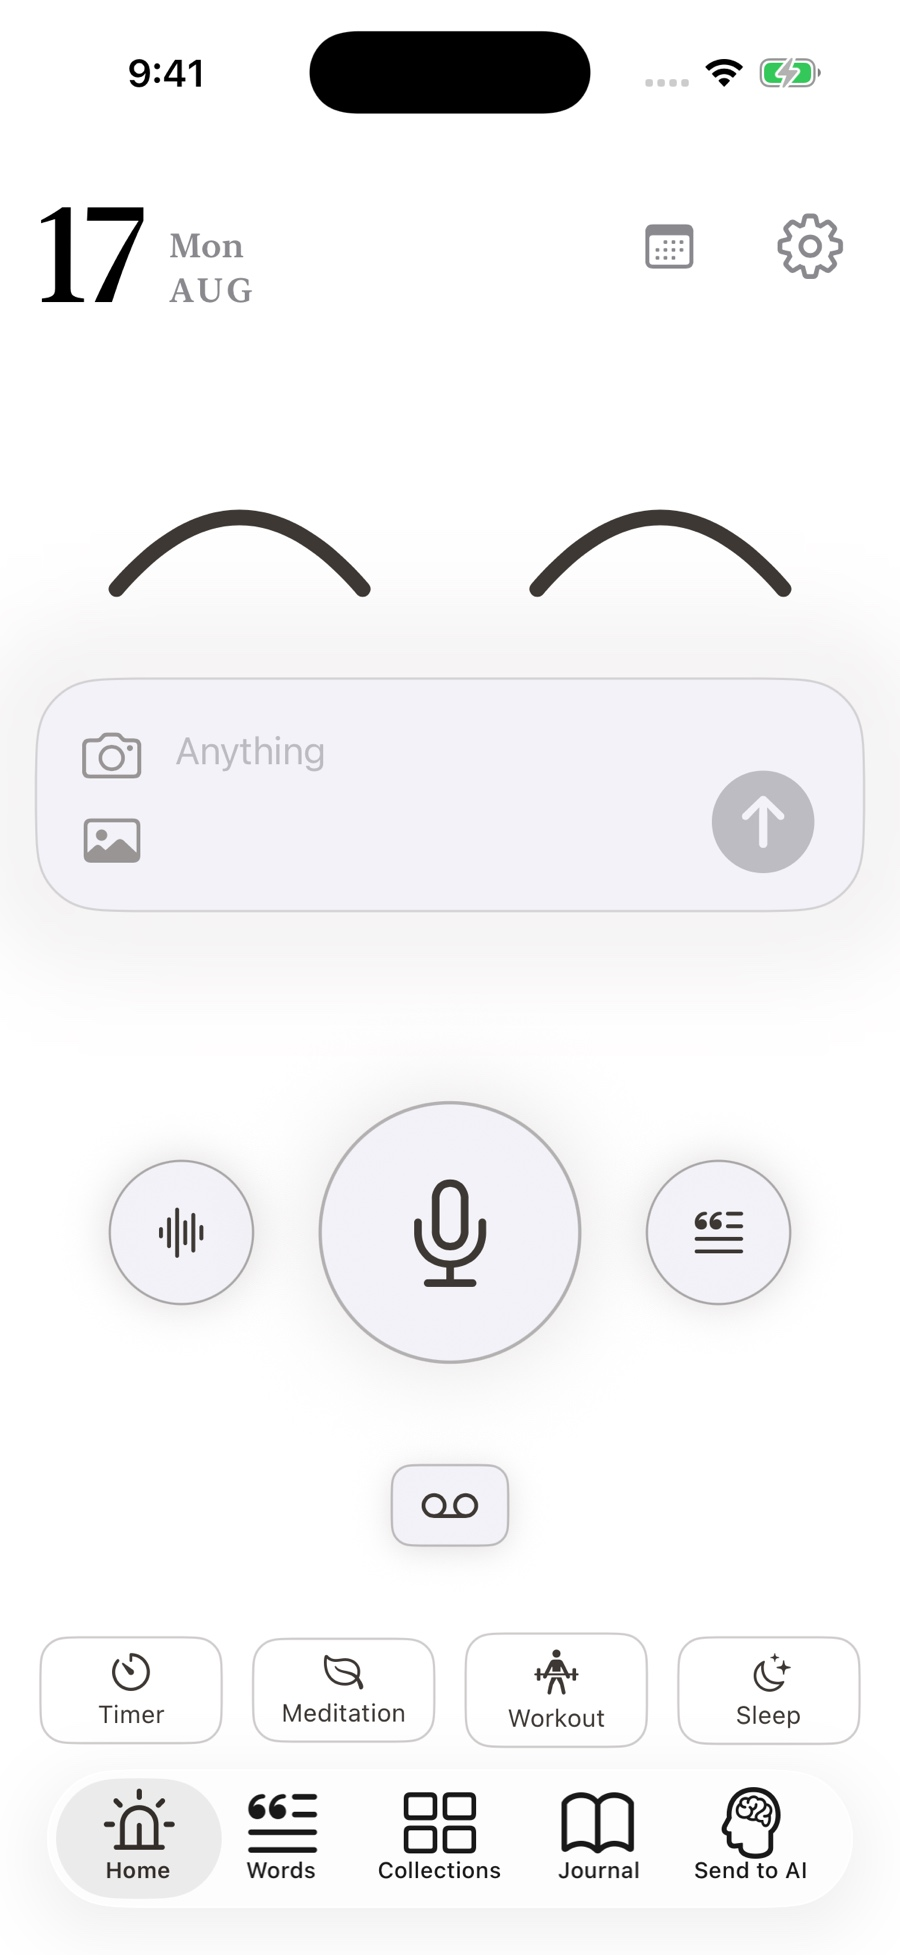
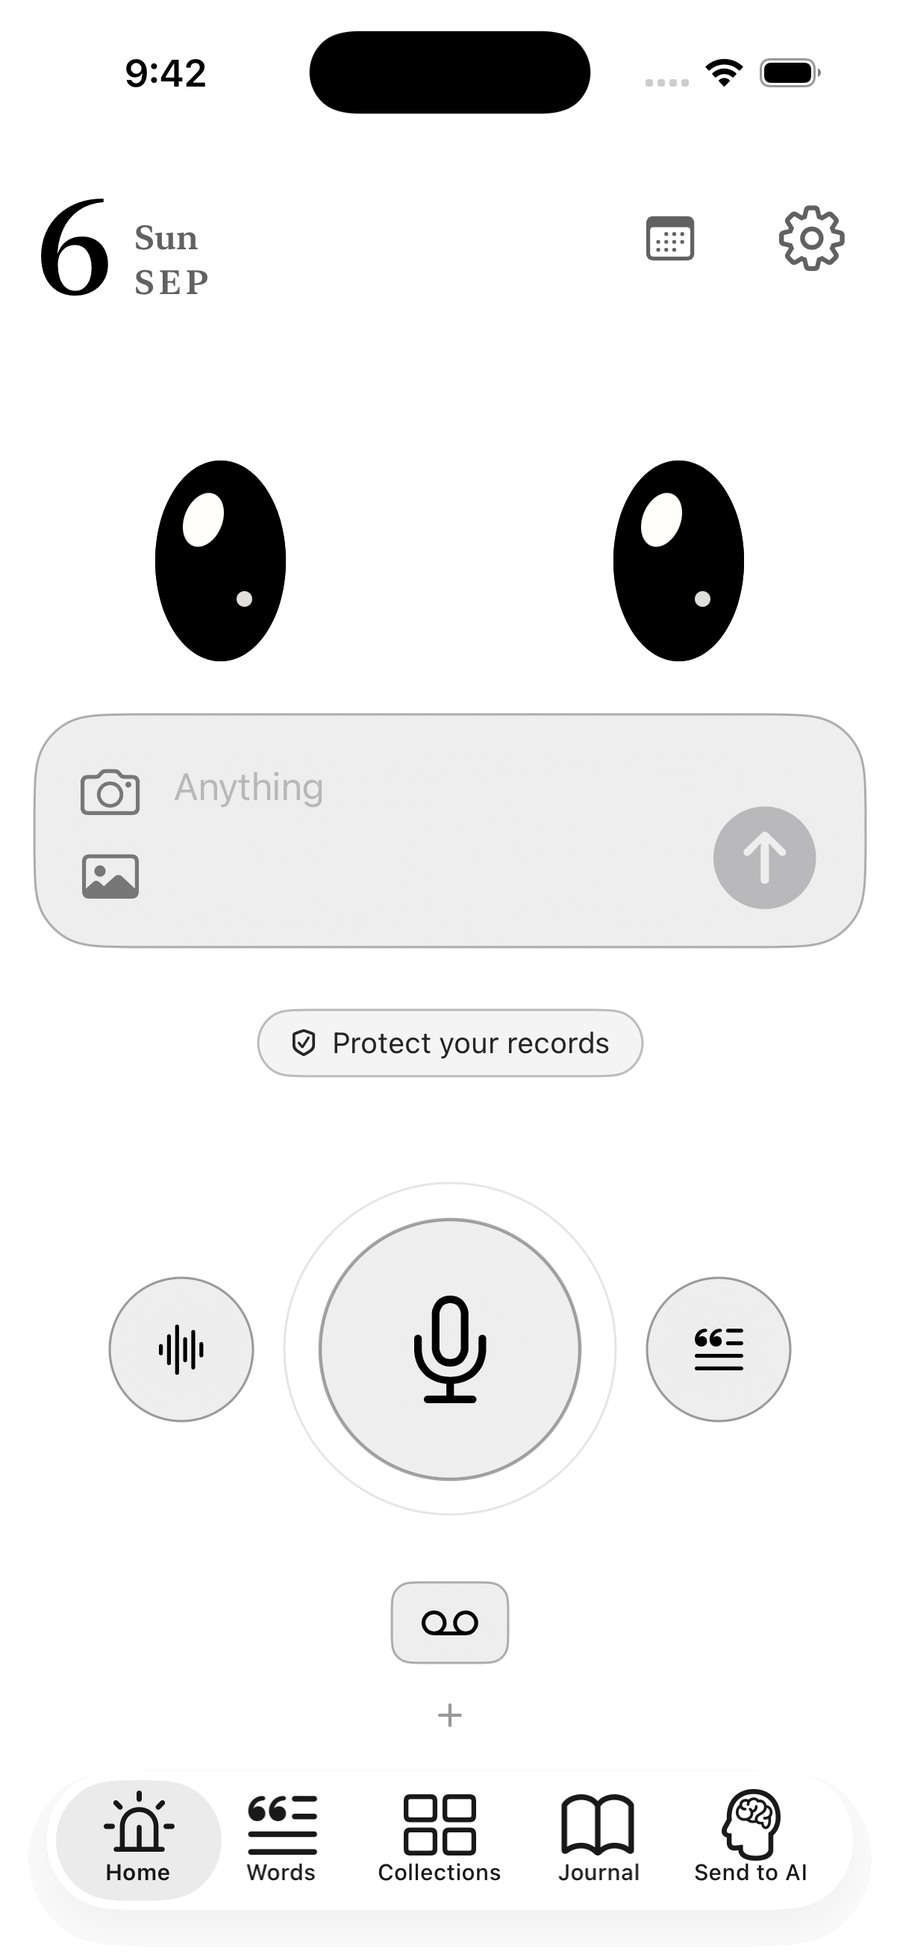
Refresh homepage screenshots on white canvas

diff --git a/index.html b/index.html
@@ -782,7 +782,8 @@
         var suffix = lang === "ja" ? "ja" : "en";
         var extension = img.dataset.shotExt || "jpg";
         var separator = img.dataset.shot.includes("-") ? "-" : "_";
-        img.src = "img/shots/" + img.dataset.shot + separator + suffix + "." + extension;
+        img.src = "img/shots/" + img.dataset.shot + separator + suffix + "." + extension
+          + "?v=20260906-white";
       });
     }
     var saved = localStorage.getItem(KEY);
@@ -927,7 +928,7 @@
         <p class="sub"><span data-i18n="ja">まとまっていなくて大丈夫。整理はAIに任せられます。</span><span data-i18n="en">It doesn’t have to be tidy. Leave the organizing to AI.</span><span data-i18n="ko">정리되지 않은 채로 말해도 괜찮아요. 정리는 AI에게 맡길 수 있어요.</span></p>
       </div>
       <div class="shots">
-        <div class="phone"><img src="img/shots/01_home_en.jpg?v=20260817c" loading="lazy" decoding="async" data-alt-ja="最新版の英語ホーム画面。白い背景に、大きく太くした目と音声ボタン" data-alt-en="The latest home screen in English, with a clean white background, larger eyes, and a large voice button." data-alt-ko="깔끔한 흰색 배경에 더 크고 굵어진 눈과 큰 음성 버튼이 있는 최신 영어 홈 화면" alt="最新版の英語ホーム画面。白い背景に、大きく太くした目と音声ボタン"></div>
+        <div class="phone"><img src="img/shots/01_home_en.jpg?v=20260906-white" loading="lazy" decoding="async" data-alt-ja="最新版の英語ホーム画面。白い背景に、大きく太くした目と音声ボタン" data-alt-en="The latest home screen in English, with a clean white background, larger eyes, and a large voice button." data-alt-ko="깔끔한 흰색 배경에 더 크고 굵어진 눈과 큰 음성 버튼이 있는 최신 영어 홈 화면" alt="最新版の英語ホーム画面。白い背景に、大きく太くした目と音声ボタン"></div>
       </div>
     </div>
   </div>
@@ -1190,7 +1191,7 @@
     <div class="cols">
       <div class="shots">
         <div class="phone small"><img src="img/shots/05_calendar_ja.jpg" data-shot="05_calendar" loading="lazy" decoding="async" data-alt-ja="白い紙のカレンダー。記録のある日に印がついている" data-alt-en="A paper calendar. Days with a record carry a small mark." data-alt-ko="종이 같은 캘린더. 기록이 있는 날에 표시가 있어요." alt="白い紙のカレンダー。記録のある日に印がついている"></div>
-        <div class="phone small"><img src="img/shots/06_journal_ja.jpg" data-shot="06_journal" loading="lazy" decoding="async" data-alt-ja="手帳の1日のページ。話した言葉と、猫の写真が並んでいる" data-alt-en="A day's page in the journal — the words you said, and a photo of the cat." data-alt-ko="저널의 하루 페이지. 말한 것과 고양이 사진이 나란히 있어요." alt="日をタップして開いた画面。その日の写真と言葉が並ぶ"></div>
+        <div class="phone small"><img src="img/shots/06_journal_ja.jpg" data-shot="06_journal" loading="lazy" decoding="async" data-alt-ja="手帳の1日のページ。声や文字で残した5つの言葉が時間順に並んでいる" data-alt-en="A day's page in the journal, with five captured words arranged in time order." data-alt-ko="저널의 하루 페이지. 남겨 둔 다섯 개의 말이 시간순으로 늘어서 있어요." alt="手帳の1日のページ。残した言葉が時間順に並んでいる"></div>
       </div>
       <div class="text">
         <ul class="points">
